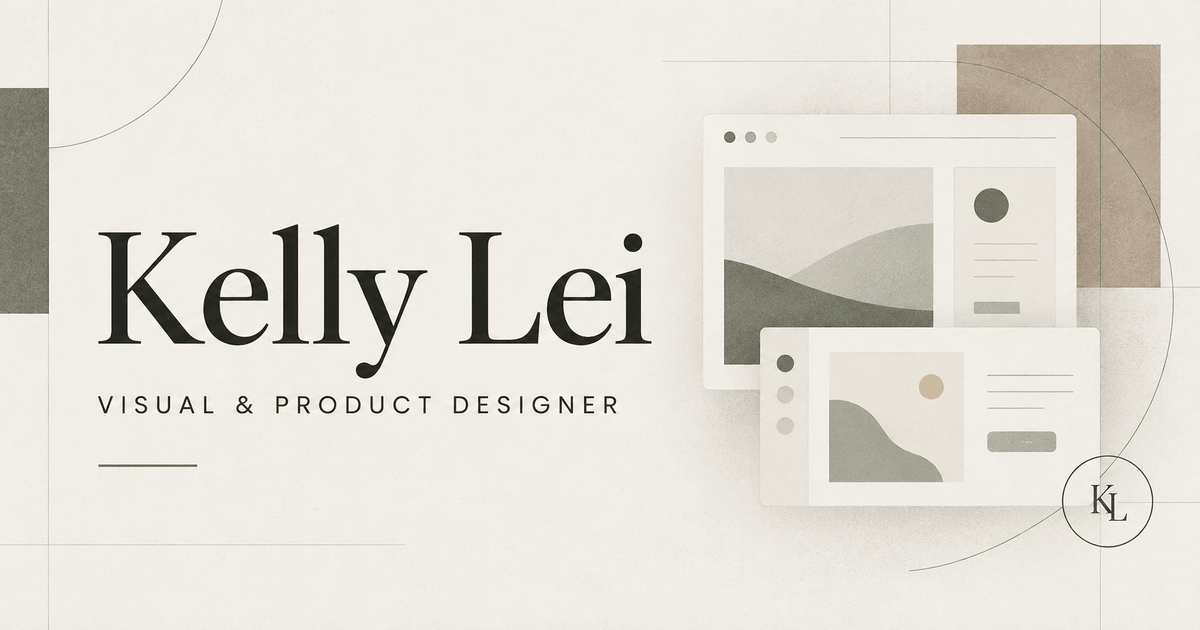
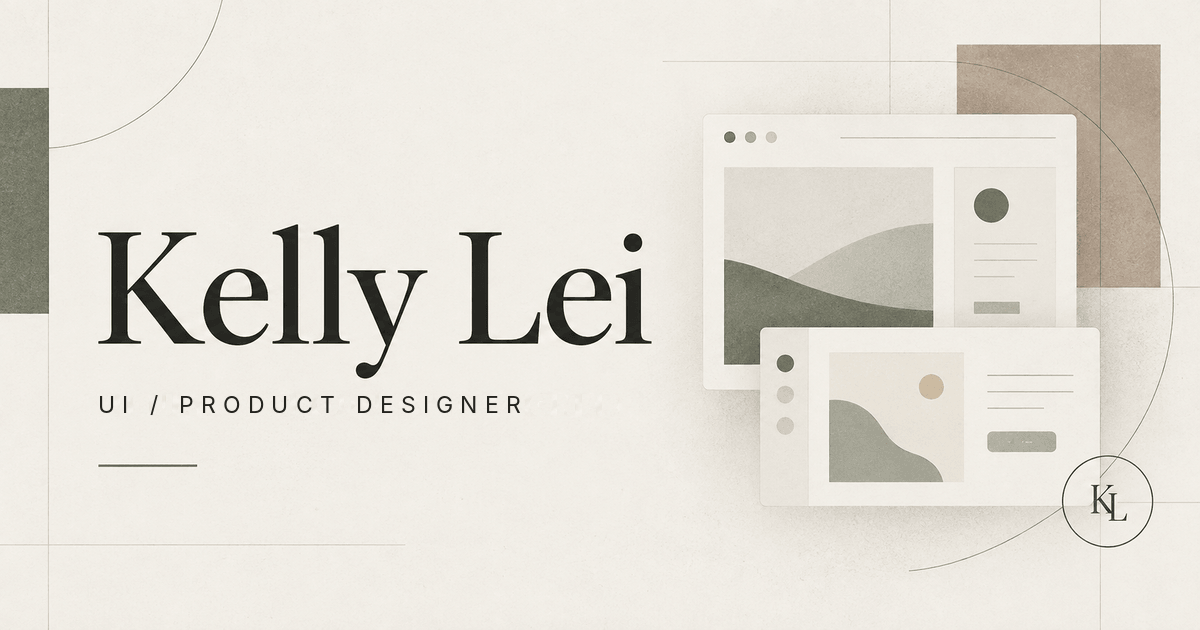
分享預覽圖更新、圖片壓縮、案例關鍵畫面元件
- og.png 職稱改為 UI / PRODUCT DESIGNER，網址加版本參數讓社群平台重抓
- 封面、App 輪播圖與首屏素材改為 WebP（約 15MB → 1.7MB），移除被取代的 PNG
- 新增「關鍵畫面」元件（app/key-screens.ts 填資料即可顯示，支援前後對照），接入四個精選案例
- 案例頁 Final Design 區塊的編號改為依顯示順序自動產生

Claude-Session: https://claude.ai/code/session_01U824wKVo9L9t6sf9d4SFha

Changed region(s): [[0.0617, 0.6032, 0.5242, 0.6635]]

diff --git a/app/site-data.ts b/app/site-data.ts
@@ -26,13 +26,13 @@ export type Project = {
 // 想依投遞產業調整精選順序，只要搬動這裡的項目即可。
 export const projects: Project[] = [
   // Featured Cases
-  {slug: 'luckmesh', category: '網站設計', title: 'LuckMesh｜跨裝置遊戲品牌體驗', subtitle: '品牌官網、視覺系統與元件規劃', role: 'UI / Visual Designer', featured: true, cover: '/luckmesh/cover.png'},
-  {slug: 'luandou-frontend', category: '平台系統', title: '遊戲大亂鬥｜內容論壇體驗重構', subtitle: '資訊架構、會員功能與元件系統', role: 'UI / Product Designer', featured: true, cover: '/luandou-frontend/cover.png'},
-  {slug: 'luandou-backend', category: '平台系統', title: '亂鬥後台｜管理與廣告系統設計', subtitle: '複雜功能流程與後台元件規劃', role: 'UI / Product Designer', featured: true, cover: '/luandou-backend/cover.png'},
-  {slug: 'easy-home-sport', category: 'APP UI', title: 'Easy Home Sport｜居家運動 App', subtitle: '課程探索、訓練與進度紀錄體驗', role: 'UI / Product Designer', featured: true, cover: '/easy-home-sport/cover.png'},
+  {slug: 'luckmesh', category: '網站設計', title: 'LuckMesh｜跨裝置遊戲品牌體驗', subtitle: '品牌官網、視覺系統與元件規劃', role: 'UI / Visual Designer', featured: true, cover: '/luckmesh/cover.webp'},
+  {slug: 'luandou-frontend', category: '平台系統', title: '遊戲大亂鬥｜內容論壇體驗重構', subtitle: '資訊架構、會員功能與元件系統', role: 'UI / Product Designer', featured: true, cover: '/luandou-frontend/cover.webp'},
+  {slug: 'luandou-backend', category: '平台系統', title: '亂鬥後台｜管理與廣告系統設計', subtitle: '複雜功能流程與後台元件規劃', role: 'UI / Product Designer', featured: true, cover: '/luandou-backend/cover.webp'},
+  {slug: 'easy-home-sport', category: 'APP UI', title: 'Easy Home Sport｜居家運動 App', subtitle: '課程探索、訓練與進度紀錄體驗', role: 'UI / Product Designer', featured: true, cover: '/easy-home-sport/cover.webp'},
   // Other Projects
-  {slug: 'xincheng-en', category: '網站設計', title: '星城 EN｜娛樂平台品牌官網', subtitle: '跨裝置介面與品牌視覺規劃', role: 'UI / Visual Designer', featured: false, cover: '/xincheng-en/cover.png'},
-  {slug: 'bana', category: '平台系統', title: 'BanaBana｜內容平台體驗重構', subtitle: '內容探索、會員功能與介面系統', role: 'UI / Product Designer', featured: false, cover: '/bana/cover.png'},
+  {slug: 'xincheng-en', category: '網站設計', title: '星城 EN｜娛樂平台品牌官網', subtitle: '跨裝置介面與品牌視覺規劃', role: 'UI / Visual Designer', featured: false, cover: '/xincheng-en/cover.webp'},
+  {slug: 'bana', category: '平台系統', title: 'BanaBana｜內容平台體驗重構', subtitle: '內容探索、會員功能與介面系統', role: 'UI / Product Designer', featured: false, cover: '/bana/cover.webp'},
   {slug: 'app-design', category: 'APP UI', title: '美耶｜到府美業服務 App', subtitle: '預約流程、UI 介面與新功能規劃', role: 'UI / Product Designer', featured: false, cover: '/app-design/cover.avif'},
   {slug: 'app-design-backend', category: 'APP UI', title: '美耶商家端｜服務管理 App', subtitle: '接單、訂單與服務狀態流程', role: 'UI / Product Designer', featured: false, cover: '/app-design-backend/cover.avif'},
   {slug: 'website-redesign', category: '網站設計', title: 'BabyHome｜響應式網站重構', subtitle: '桌機與手機資訊層級重新規劃', role: 'UI / UX Designer', featured: false, cover: '/website-redesign/cover.avif'},

diff --git a/app/projects/luandou-frontend/page.tsx b/app/projects/luandou-frontend/page.tsx
@@ -1,3 +1,5 @@
+import KeyScreens from '../../components/KeyScreens';
+import {projectNumber} from '../../site-data';
 import SiteFooter from '../../components/SiteFooter';
 const figmaUrl='https://www.figma.com/design/NJ9sytsTnmPb5vvCAXkRGn/%E4%BA%82%E9%AC%A5%E5%89%8D%E5%8F%B0-%E6%A1%8C%E6%A9%9F%E7%89%88?node-id=376-139615&t=PcqMVCxu2lCifXTG-0';
 const figmaEmbed=`https://www.figma.com/embed?embed_host=share&url=${encodeURIComponent(figmaUrl)}`;
@@ -8,7 +10,7 @@ export default function LuandouFrontendPage(){
     <CaseStudyIntro slug="luandou-frontend" category="PLATFORM SYSTEM" title="遊戲大亂鬥｜內容論壇體驗重構" summary="面對大量文章、會員互動與活動入口，重新梳理資訊層級與操作路徑，讓內容探索與核心功能更容易被理解。" role="UI / Product Designer" scope="資訊架構、用戶功能、元件系統" platform="Responsive Web"/>
     <CaseToc/>
     <section className="case-cover" aria-label="遊戲大亂鬥專案封面">
-      <img src={sitePath('/luandou-frontend/cover.png')} alt="遊戲大亂鬥桌機與行動版介面展示"/>
+      <img src={sitePath('/luandou-frontend/cover.webp')} alt="遊戲大亂鬥桌機與行動版介面展示"/>
     </section>
     <section className="case-story">
       <article className="case-story-overview" id="overview">
@@ -45,8 +47,9 @@ export default function LuandouFrontendPage(){
       </section>
     </section>
     <div className="figma-section-heading" id="final-design"><p>03 · FINAL DESIGN</p><h2>完整介面與畫面流程</h2></div>
+    <KeyScreens slug="luandou-frontend"/>
     <section className="luckmesh-preview">
-      <div className="device-label"><span>03</span><strong>FIGMA DESIGN</strong><a href={figmaUrl} target="_blank" rel="noreferrer">OPEN IN FIGMA ↗</a></div>
+      <div className="device-label"><span>{projectNumber('luandou-frontend')}</span><strong>FIGMA DESIGN</strong><a href={figmaUrl} target="_blank" rel="noreferrer">OPEN IN FIGMA ↗</a></div>
       <iframe src={figmaEmbed} title="亂鬥前台 Figma design" allowFullScreen allow="fullscreen"/>
       <p className="figma-detail-note">想查看更多設計細節與完整畫面流程，歡迎<a href={figmaUrl} target="_blank" rel="noreferrer">進入 Figma 深入瀏覽 ↗</a></p>
     </section>

diff --git a/app/projects/easy-home-sport/page.tsx b/app/projects/easy-home-sport/page.tsx
@@ -1,3 +1,5 @@
+import KeyScreens from '../../components/KeyScreens';
+import {projectNumber} from '../../site-data';
 import SiteFooter from '../../components/SiteFooter';
 const figmaUrl='https://www.figma.com/design/JnjeGruGMCYKj3UcAbwZ9w/Easy-Home-Sport-%E2%80%94-%E5%B1%85%E5%AE%B6%E9%81%8B%E5%8B%95-APP?node-id=0-1&t=QR4essQP207TPWuk-1';
 const figmaEmbed=`https://www.figma.com/embed?embed_host=share&url=${encodeURIComponent(figmaUrl)}`;
@@ -8,7 +10,7 @@ export default function EasyHomeSportPage(){
     <CaseStudyIntro slug="easy-home-sport" category="APP DESIGN" title="Easy Home Sport｜居家運動 App" summary="從課程探索、訓練播放到進度紀錄，打造能降低開始門檻並陪伴使用者建立運動節奏的行動體驗。" role="UI / Product Designer" scope="產品流程、Mobile UI、Design System" platform="Mobile App"/>
     <CaseToc/>
     <section className="case-cover" aria-label="Easy Home Sport 專案封面">
-      <img src={sitePath('/easy-home-sport/cover.png')} alt="Easy Home Sport 居家運動 App 畫面展示"/>
+      <img src={sitePath('/easy-home-sport/cover.webp')} alt="Easy Home Sport 居家運動 App 畫面展示"/>
     </section>
     <section className="case-story">
       <article className="case-story-overview" id="overview">
@@ -38,8 +40,9 @@ export default function EasyHomeSportPage(){
       </section>
     </section>
     <div className="figma-section-heading" id="final-design"><p>03 · FINAL DESIGN</p><h2>完整 App 介面與產品流程</h2></div>
+    <KeyScreens slug="easy-home-sport"/>
     <section className="luckmesh-preview">
-      <div className="device-label"><span>10</span><strong>FIGMA DESIGN</strong><a href={figmaUrl} target="_blank" rel="noreferrer">OPEN IN FIGMA ↗</a></div>
+      <div className="device-label"><span>{projectNumber('easy-home-sport')}</span><strong>FIGMA DESIGN</strong><a href={figmaUrl} target="_blank" rel="noreferrer">OPEN IN FIGMA ↗</a></div>
       <iframe src={figmaEmbed} title="Easy Home Sport Figma design" allowFullScreen allow="fullscreen"/>
     </section>
     <ProjectPager current="easy-home-sport"/>

diff --git a/app/projects/luandou-backend/page.tsx b/app/projects/luandou-backend/page.tsx
@@ -1,3 +1,5 @@
+import KeyScreens from '../../components/KeyScreens';
+import {projectNumber} from '../../site-data';
 import SiteFooter from '../../components/SiteFooter';
 const figmaUrl='https://www.figma.com/design/IZstlpMcHwZrNR23u7W1qO/%E4%BA%82%E9%AC%A5%E5%BE%8C%E5%8F%B0?t=UEm0NWFAAjYfTr1I-0';
 const figmaEmbed=`https://www.figma.com/embed?embed_host=share&url=${encodeURIComponent(figmaUrl)}`;
@@ -8,7 +10,7 @@ export default function LuandouBackendPage(){
     <CaseStudyIntro slug="luandou-backend" category="ADMIN SYSTEM" title="亂鬥後台｜管理與廣告系統設計" summary="將管理員、內容與廣告操作拆解成一致的任務流程，改善複雜資訊的閱讀順序與日常管理效率。" role="UI / Product Designer" scope="功能重構、廣告系統、後台元件" platform="Desktop Web"/>
     <CaseToc/>
     <section className="case-cover" aria-label="亂鬥後台專案封面">
-      <img src={sitePath('/luandou-backend/cover.png')} alt="亂鬥後台管理系統介面展示"/>
+      <img src={sitePath('/luandou-backend/cover.webp')} alt="亂鬥後台管理系統介面展示"/>
     </section>
     <section className="case-story">
       <article className="case-story-overview" id="overview">
@@ -45,8 +47,9 @@ export default function LuandouBackendPage(){
       </section>
     </section>
     <div className="figma-section-heading" id="final-design"><p>03 · FINAL DESIGN</p><h2>完整後台介面與功能模組</h2></div>
+    <KeyScreens slug="luandou-backend"/>
     <section className="luckmesh-preview">
-      <div className="device-label"><span>04</span><strong>FIGMA DESIGN</strong><a href={figmaUrl} target="_blank" rel="noreferrer">OPEN IN FIGMA ↗</a></div>
+      <div className="device-label"><span>{projectNumber('luandou-backend')}</span><strong>FIGMA DESIGN</strong><a href={figmaUrl} target="_blank" rel="noreferrer">OPEN IN FIGMA ↗</a></div>
       <iframe src={figmaEmbed} title="亂鬥後台 Figma design" allowFullScreen allow="fullscreen"/>
     </section>
     <ProjectPager current="luandou-backend"/>

diff --git a/app/projects/luckmesh/page.tsx b/app/projects/luckmesh/page.tsx
@@ -1,3 +1,5 @@
+import KeyScreens from '../../components/KeyScreens';
+import {projectNumber} from '../../site-data';
 import SiteFooter from '../../components/SiteFooter';
 const figmaUrl='https://www.figma.com/design/l1W4U9Ef6lxadEqfwlLfPW/LuckMesh?node-id=0-1&p=f&t=k8uWoRISjUFxf8WS-0';
 const figmaEmbed=`https://www.figma.com/embed?embed_host=share&url=${encodeURIComponent(figmaUrl)}`;
@@ -8,7 +10,7 @@ export default function LuckMeshPage(){
     <CaseStudyIntro slug="luckmesh" category="WEBSITE DESIGN" title="LuckMesh｜跨裝置遊戲品牌體驗" summary="以品牌識別一致性與跨裝置閱讀為核心，重新整理官網的視覺層級、內容區塊與可重複使用元件。" role="UI / Visual Designer" scope="品牌視覺、Web UI、元件規劃" platform="Desktop / Mobile"/>
     <CaseToc/>
     <section className="case-cover" aria-label="LuckMesh 專案封面">
-      <img src={sitePath('/luckmesh/cover.png')} alt="LuckMesh 跨裝置遊戲品牌網站展示"/>
+      <img src={sitePath('/luckmesh/cover.webp')} alt="LuckMesh 跨裝置遊戲品牌網站展示"/>
     </section>
     <section className="case-story">
       <article className="case-story-overview" id="overview">
@@ -38,8 +40,9 @@ export default function LuckMeshPage(){
       </section>
     </section>
     <div className="figma-section-heading" id="final-design"><p>03 · FINAL DESIGN</p><h2>完整品牌介面與跨裝置畫面</h2></div>
+    <KeyScreens slug="luckmesh"/>
     <section className="luckmesh-preview">
-      <div className="device-label"><span>01</span><strong>FIGMA DESIGN</strong><a href={figmaUrl} target="_blank" rel="noreferrer">OPEN IN FIGMA ↗</a></div>
+      <div className="device-label"><span>{projectNumber('luckmesh')}</span><strong>FIGMA DESIGN</strong><a href={figmaUrl} target="_blank" rel="noreferrer">OPEN IN FIGMA ↗</a></div>
       <iframe src={figmaEmbed} title="LuckMesh Figma design" allowFullScreen allow="fullscreen"/>
     </section>
     <ProjectPager current="luckmesh"/>

diff --git a/app/globals.css b/app/globals.css
@@ -462,3 +462,23 @@ footer.site-footer{display:block;padding:0;font-size:inherit;letter-spacing:norm
   .footer-meta{padding:22px 20px 26px}
   .footer-actions .footer-primary{width:100%;justify-content:space-between}
 }
+
+/* Key screens on case pages */
+.key-screens{width:calc(100% - 8vw);max-width:1400px;margin:0 auto 96px;display:grid;gap:88px}
+.key-screen{margin:0;display:grid;grid-template-columns:minmax(0,1.6fr) minmax(220px,.7fr);gap:48px;align-items:center}
+.key-screen:nth-child(even){grid-template-columns:minmax(220px,.7fr) minmax(0,1.6fr)}
+.key-screen:nth-child(even) .key-screen-media{order:2}
+.key-screen-media{display:grid;gap:16px;min-width:0}
+.key-screen-compare .key-screen-media{grid-template-columns:1fr 1fr}
+.key-screen-media>div{position:relative;min-width:0}
+.key-screen-media img{display:block;width:100%;height:auto;border:1px solid var(--line);background:#fff;box-shadow:0 22px 60px #2b271f12}
+.key-screen-tag{position:absolute;top:12px;left:12px;padding:4px 8px;background:#25231f;color:#f3f0e9;font:10px Georgia,serif;letter-spacing:.12em}
+.key-screen figcaption span{font:11px Georgia,serif;letter-spacing:.12em;color:var(--muted)}
+.key-screen figcaption h3{margin:14px 0 12px;font:500 22px/1.35 var(--font-zh)}
+.key-screen figcaption p{margin:0;font-size:15px;line-height:1.85;color:#4f4b44}
+@media(max-width:760px){
+  .key-screens{width:auto;margin:0 16px 72px;gap:60px}
+  .key-screen,.key-screen:nth-child(even){grid-template-columns:1fr;gap:22px}
+  .key-screen:nth-child(even) .key-screen-media{order:0}
+  .key-screen-compare .key-screen-media{grid-template-columns:1fr}
+}

diff --git a/app/projects/bana/page.tsx b/app/projects/bana/page.tsx
@@ -1,3 +1,4 @@
+import {projectNumber} from '../../site-data';
 import SiteFooter from '../../components/SiteFooter';
 const figmaUrl='https://www.figma.com/design/9Mpx9dHmKYeCprfpULwxrM/BANA-Web-UI?node-id=29035-48227&t=yITNoYWb1mhKVruW-0';
 const figmaEmbed=`https://www.figma.com/embed?embed_host=share&url=${encodeURIComponent(figmaUrl)}`;
@@ -7,7 +8,7 @@ export default function BanaPage(){
     <CaseNav/>
     <CaseStudyIntro slug="bana" category="CONTENT PLATFORM" title="BanaBana｜內容平台體驗重構" summary="針對內容探索、會員操作與高密度資訊呈現重新規劃介面，建立更一致的瀏覽節奏與元件系統。" role="UI / Product Designer" scope="內容架構、用戶功能、元件規劃" platform="Responsive Web"/>
     <section className="luckmesh-preview">
-      <div className="device-label"><span>05</span><strong>FIGMA DESIGN</strong><a href={figmaUrl} target="_blank" rel="noreferrer">OPEN IN FIGMA ↗</a></div>
+      <div className="device-label"><span>{projectNumber('bana')}</span><strong>FIGMA DESIGN</strong><a href={figmaUrl} target="_blank" rel="noreferrer">OPEN IN FIGMA ↗</a></div>
       <iframe src={figmaEmbed} title="BANA Web UI Figma design" allowFullScreen allow="fullscreen"/>
       <p className="figma-detail-note">想查看更多設計細節與完整畫面流程，歡迎<a href={figmaUrl} target="_blank" rel="noreferrer">進入 Figma 深入瀏覽 ↗</a></p>
     </section>

diff --git a/app/projects/little-tail/page.tsx b/app/projects/little-tail/page.tsx
@@ -1,3 +1,4 @@
+import {projectNumber} from '../../site-data';
 import SiteFooter from '../../components/SiteFooter';
 import ProfileSidebar from '../../components/ProfileSidebar';
 import CaseNav from '../../components/CaseNav';
@@ -12,7 +13,7 @@ export default function LittleTailPage(){
     <CaseNav/>
     <CaseStudyIntro slug="little-tail" category="WEBSITE DESIGN" title="小尾巴｜寵物美容預約平台" summary="整合美容服務預約與領養資訊，讓使用者能在不同裝置上快速理解服務內容並完成下一步。" role="UI / UX Designer" scope="預約體驗、資訊架構、RWD" platform="Desktop / Mobile"/>
     <section className="luckmesh-preview">
-      <div className="device-label"><span>09</span><strong>FIGMA DESIGN</strong><a href={figmaUrl} target="_blank" rel="noreferrer">OPEN IN FIGMA ↗</a></div>
+      <div className="device-label"><span>{projectNumber('little-tail')}</span><strong>FIGMA DESIGN</strong><a href={figmaUrl} target="_blank" rel="noreferrer">OPEN IN FIGMA ↗</a></div>
       <iframe src={figmaEmbed} title="小尾巴寵物美容 Figma design" allowFullScreen allow="fullscreen"/>
       <p className="figma-detail-note">想查看更多設計細節與完整畫面流程，歡迎<a href={figmaUrl} target="_blank" rel="noreferrer">進入 Figma 深入瀏覽 ↗</a></p>
     </section>

diff --git a/app/projects/xincheng-en/page.tsx b/app/projects/xincheng-en/page.tsx
@@ -1,3 +1,4 @@
+import {projectNumber} from '../../site-data';
 import SiteFooter from '../../components/SiteFooter';
 const figmaUrl='https://www.figma.com/design/McFhXePpGqJ4OX27vk4wCf/%E6%98%9F%E5%9F%8EEN--Copy-?node-id=0-1&t=vV3JKGISWzZreDXA-1';
 const figmaEmbed=`https://www.figma.com/embed?embed_host=share&url=${encodeURIComponent(figmaUrl)}`;
@@ -7,7 +8,7 @@ export default function XinchengEnPage(){
     <CaseNav/>
     <CaseStudyIntro slug="xincheng-en" category="WEBSITE DESIGN" title="星城 EN｜娛樂平台品牌官網" summary="以高密度娛樂內容為基礎，建立清楚的品牌視覺、內容導覽與跨裝置介面規則。" role="UI / Visual Designer" scope="品牌官網、RWD、元件規劃" platform="Desktop / Mobile"/>
     <section className="luckmesh-preview">
-      <div className="device-label"><span>02</span><strong>FIGMA DESIGN</strong><a href={figmaUrl} target="_blank" rel="noreferrer">OPEN IN FIGMA ↗</a></div>
+      <div className="device-label"><span>{projectNumber('xincheng-en')}</span><strong>FIGMA DESIGN</strong><a href={figmaUrl} target="_blank" rel="noreferrer">OPEN IN FIGMA ↗</a></div>
       <iframe src={figmaEmbed} title="星城 EN Figma design" allowFullScreen allow="fullscreen"/>
     </section>
     <ProjectPager current="xincheng-en"/>

diff --git a/app/components/KeyScreens.tsx b/app/components/KeyScreens.tsx
@@ -1,0 +1,20 @@
+import {sitePath} from '../site-path';
+import {keyScreens} from '../key-screens';
+
+export default function KeyScreens({slug}:{slug:string}){
+  const screens=keyScreens[slug]??[];
+  if(!screens.length) return null;
+  return <section className="key-screens" aria-label="關鍵畫面">
+    {screens.map((screen,index)=><figure key={screen.src} className={`key-screen${screen.before?' key-screen-compare':''}`}>
+      <div className="key-screen-media">
+        {screen.before&&<div><span className="key-screen-tag">BEFORE</span><img src={sitePath(screen.before)} alt={`${screen.title}（改版前）`} loading="lazy"/></div>}
+        <div>{screen.before&&<span className="key-screen-tag">AFTER</span>}<img src={sitePath(screen.src)} alt={screen.title} loading="lazy"/></div>
+      </div>
+      <figcaption>
+        <span>{String(index+1).padStart(2,'0')}</span>
+        <h3>{screen.title}</h3>
+        <p>{screen.caption}</p>
+      </figcaption>
+    </figure>)}
+  </section>;
+}

diff --git a/app/key-screens.ts b/app/key-screens.ts
@@ -1,0 +1,23 @@
+// 案例「關鍵畫面」資料。沒有填任何畫面的案例，頁面上不會顯示這個區塊。
+//
+// 新增畫面的方式：
+// 1. 在 Figma 選取畫面 → 右側 Export → PNG、2x → 匯出
+// 2. 圖片放到 public/<案例資料夾>/screens/，例如 public/luandou-backend/screens/merchant-form.png
+// 3. 在下方對應案例的陣列加一筆：
+//    {src: '/luandou-backend/screens/merchant-form.png', title: '新增商家表單', caption: '一句話說明這個畫面的設計決策。'}
+// 4. 前後對照：加上 before 欄位，例如 before: '/luandou-backend/screens/merchant-form-old.png'
+//    畫面會並排顯示 Before / After。
+
+export type KeyScreen = {
+  src: string;
+  title: string;
+  caption: string;
+  before?: string;
+};
+
+export const keyScreens: Record<string, KeyScreen[]> = {
+  'luckmesh': [],
+  'luandou-frontend': [],
+  'luandou-backend': [],
+  'easy-home-sport': [],
+};

diff --git a/app/page.tsx b/app/page.tsx
@@ -63,7 +63,7 @@ export default function Home(){
 
     <section className="intro" id="top" style={{backgroundImage:`url(${sitePath('/visual/hero-bg.jpg')})`}}>
       <div className="work-scene" aria-hidden="true" onPointerMove={repelAssets} onPointerLeave={resetAssets}>
-        {[1,2,3,4,5,6,7,8].map(icon=><span key={icon} className={`floating-icon icon-${icon}`}><img src={sitePath(`/visual/icon-${icon}.png`)} alt=""/></span>) }
+        {[1,2,3,4,5,6,7,8].map(icon=><span key={icon} className={`floating-icon icon-${icon}`}><img src={sitePath(`/visual/icon-${icon}.webp`)} alt=""/></span>) }
       </div>
       <div className="intro-copy">
         <p className="hello">{profile.name.toUpperCase()} · {profile.title.toUpperCase()}</p>
